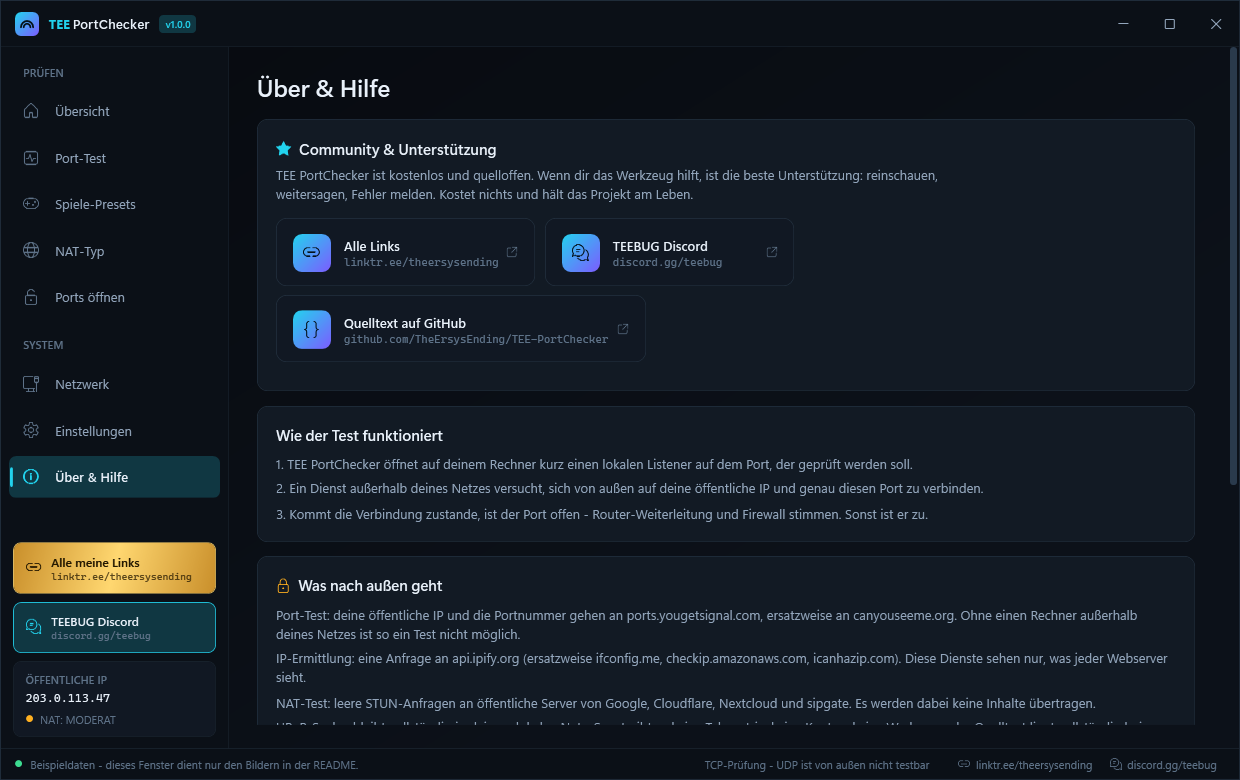
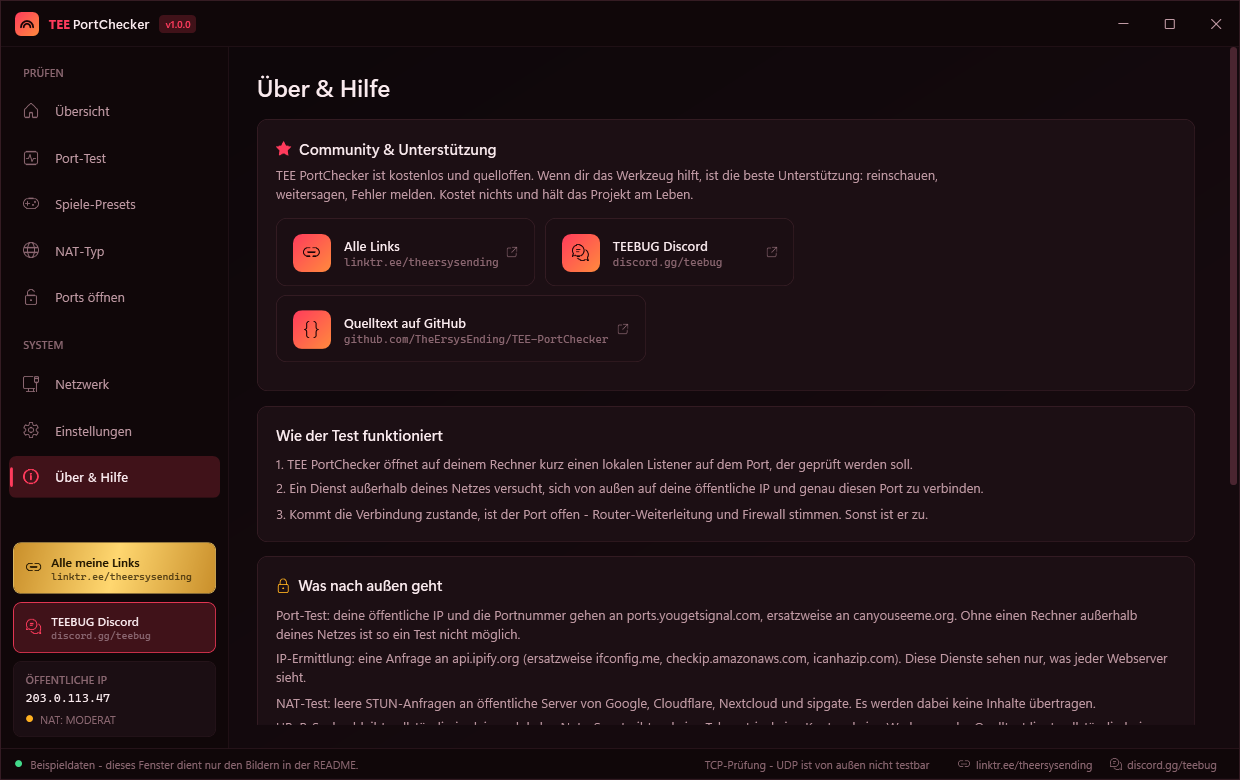
Crimson als Voreinstellung
Crimson passt zum Gaming-Charakter des Werkzeugs besser als Midnight und ist
jetzt die Voreinstellung. Es steht zugleich an erster Stelle der Liste, weil
Get-ThemeById auf Themes[0] zurueckfaellt, wenn eine gespeicherte Id unbekannt
ist - sonst saehe ein frischer Start anders aus als einer nach einem Fehlgriff.
Ein neuer Test wacht darueber, dass beides zusammenpasst.

Bilder und Theme-Galerie in der README entsprechend neu.

diff --git a/README.md b/README.md
@@ -175,15 +175,17 @@ dein Router, können Spiele Ports selbst freigeben und du sparst dir die Handarb
 
 Umschaltbar im laufenden Betrieb, die Auswahl wird gemerkt.
 
+**Crimson** ist die Voreinstellung — oben im ersten Bild zu sehen.
+
 | Midnight — Cyan auf Tiefschwarz | Toxic — Giftgrün, Terminal-Optik |
 |---|---|
-| ![Midnight](docs/images/01-uebersicht.png) | ![Toxic](docs/images/theme-toxic.png) |
-| **Crimson** — Rot-Orange, aggressiv | **Ultraviolet** — Violett und Pink |
-| ![Crimson](docs/images/theme-crimson.png) | ![Ultraviolet](docs/images/theme-ultraviolet.png) |
-| **Amber** — Bernstein, warmes Dunkel | **Arctic** — Eisblau, ruhig |
-| ![Amber](docs/images/theme-amber.png) | ![Arctic](docs/images/theme-arctic.png) |
-| **Carbon** — neutrales Windows-11-Dunkel | **Daylight** — helles Windows-11-Design |
-| ![Carbon](docs/images/theme-carbon.png) | ![Daylight](docs/images/theme-daylight.png) |
+| ![Midnight](docs/images/theme-midnight.png) | ![Toxic](docs/images/theme-toxic.png) |
+| **Ultraviolet** — Violett und Pink | **Amber** — Bernstein, warmes Dunkel |
+| ![Ultraviolet](docs/images/theme-ultraviolet.png) | ![Amber](docs/images/theme-amber.png) |
+| **Arctic** — Eisblau, ruhig | **Carbon** — neutrales Windows-11-Dunkel |
+| ![Arctic](docs/images/theme-arctic.png) | ![Carbon](docs/images/theme-carbon.png) |
+| **Daylight** — helles Windows-11-Design | |
+| ![Daylight](docs/images/theme-daylight.png) | |
 
 Eigene Farbwelt bauen: in [`src/PortCheck.Themes.ps1`](src/PortCheck.Themes.ps1)
 einen Block kopieren, Id vergeben, Hex-Werte ändern. Die Testsuite prüft
